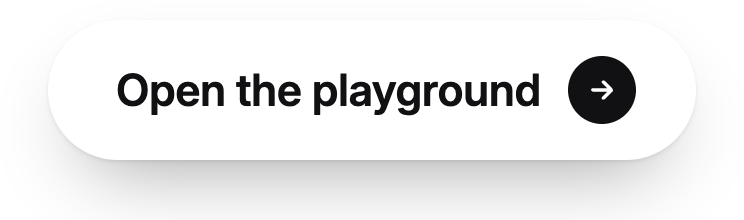
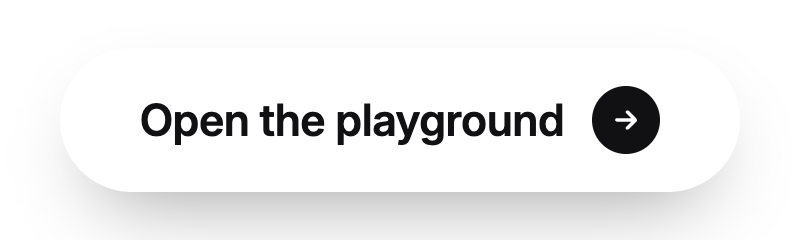
readme: same size for both buttons

Changed region(s): [[0.1546, 0.2455, 0.8656, 0.6545], [0.0927, 0.6545, 0.8965, 0.8182], [0.8965, 0.6273, 0.9274, 0.6818]]

diff --git a/README.md b/README.md
@@ -15,18 +15,14 @@ A byte-level BPE tokenizer in plain Python, under 1,000 lines, that reproduces G
 </p>
 
 <p align="center">
-  <a href="https://stxqq.github.io/bytepair/">
-    <picture>
+  <a href="https://stxqq.github.io/bytepair/"><picture>
       <source media="(prefers-color-scheme: dark)" srcset=".github/assets/launch-dark.png">
-      <img src=".github/assets/launch-light.png" alt="Open the live demo" width="300">
-    </picture>
-  </a>
-  <a href="https://github.com/Stxqq/bytepair">
-    <picture>
+      <img src=".github/assets/launch-light.png" alt="Open the live demo" width="280">
+    </picture></a>
+  <a href="https://github.com/Stxqq/bytepair"><picture>
       <source media="(prefers-color-scheme: dark)" srcset=".github/assets/star-dark.png">
-      <img src=".github/assets/star-light.png" alt="Star on GitHub" width="260">
-    </picture>
-  </a>
+      <img src=".github/assets/star-light.png" alt="Star on GitHub" width="280">
+    </picture></a>
   <br />
   <sub>If you found it useful, a star helps more people find it.</sub>
 </p>
